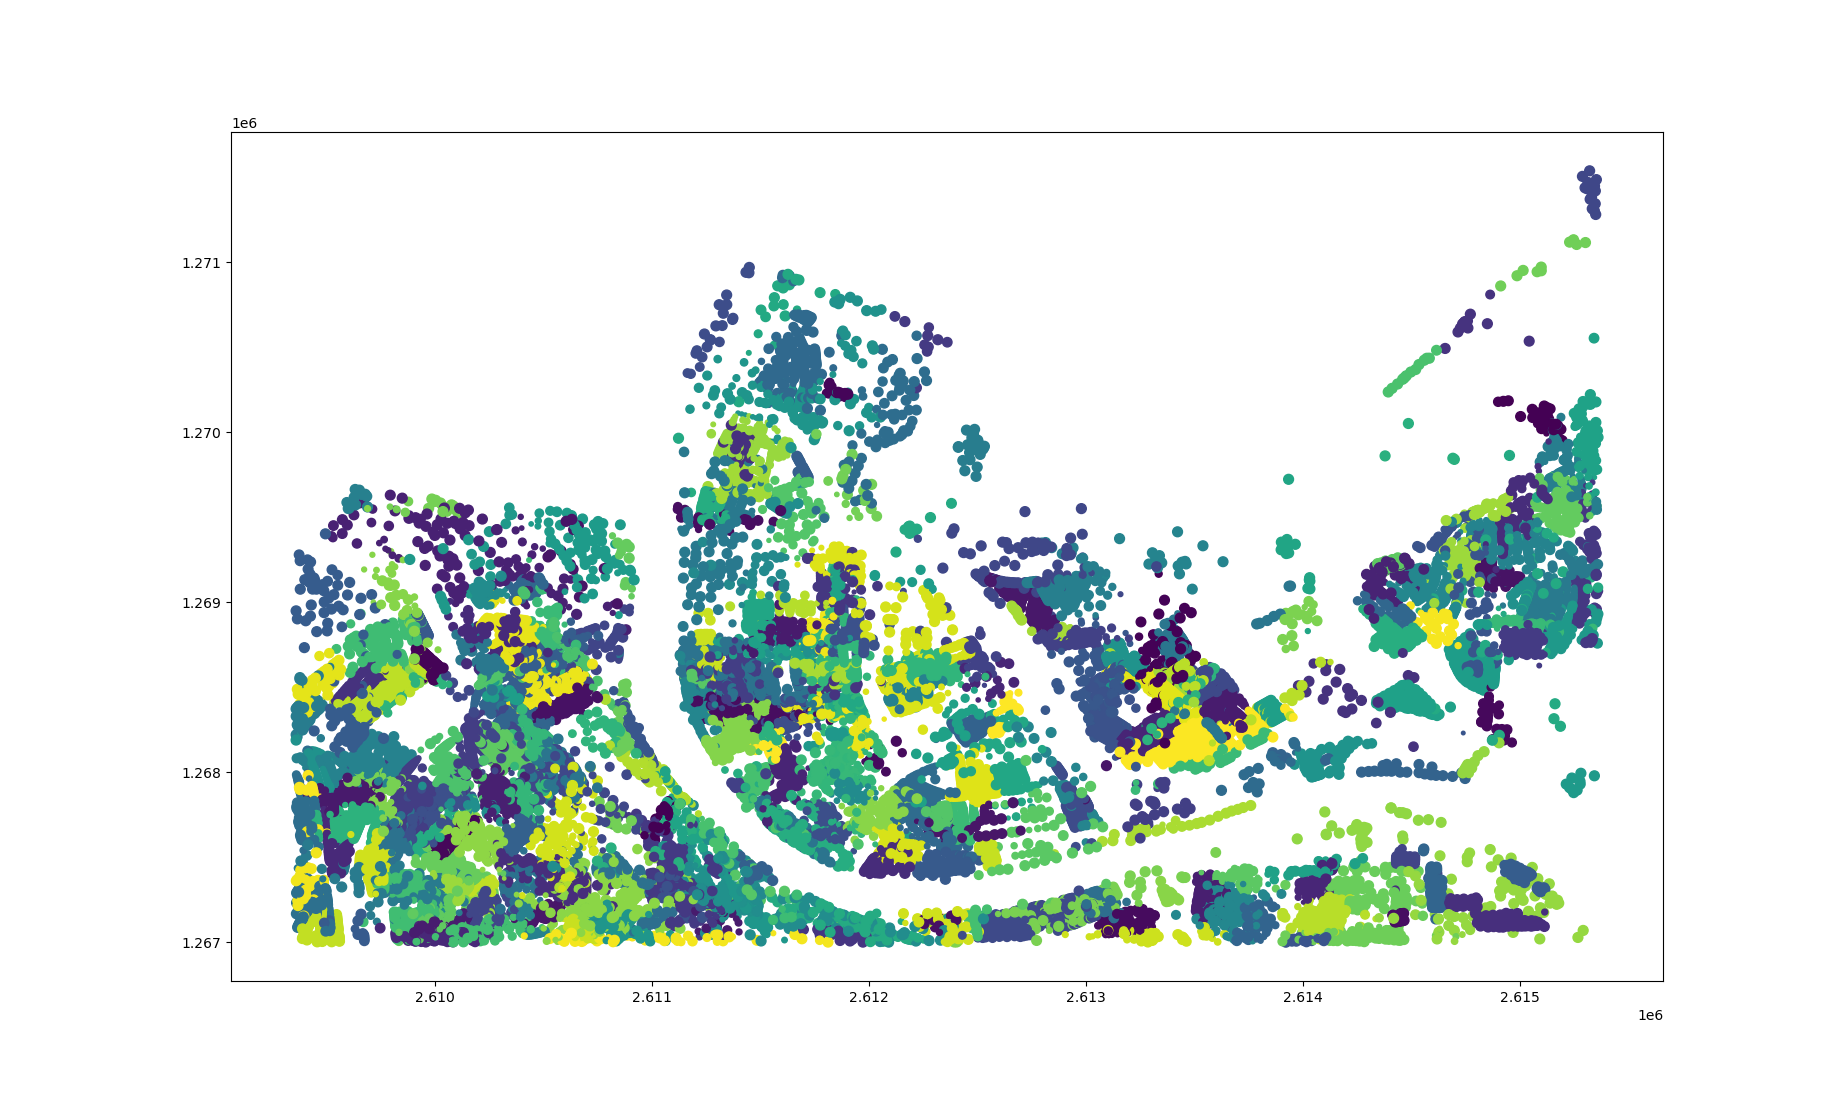
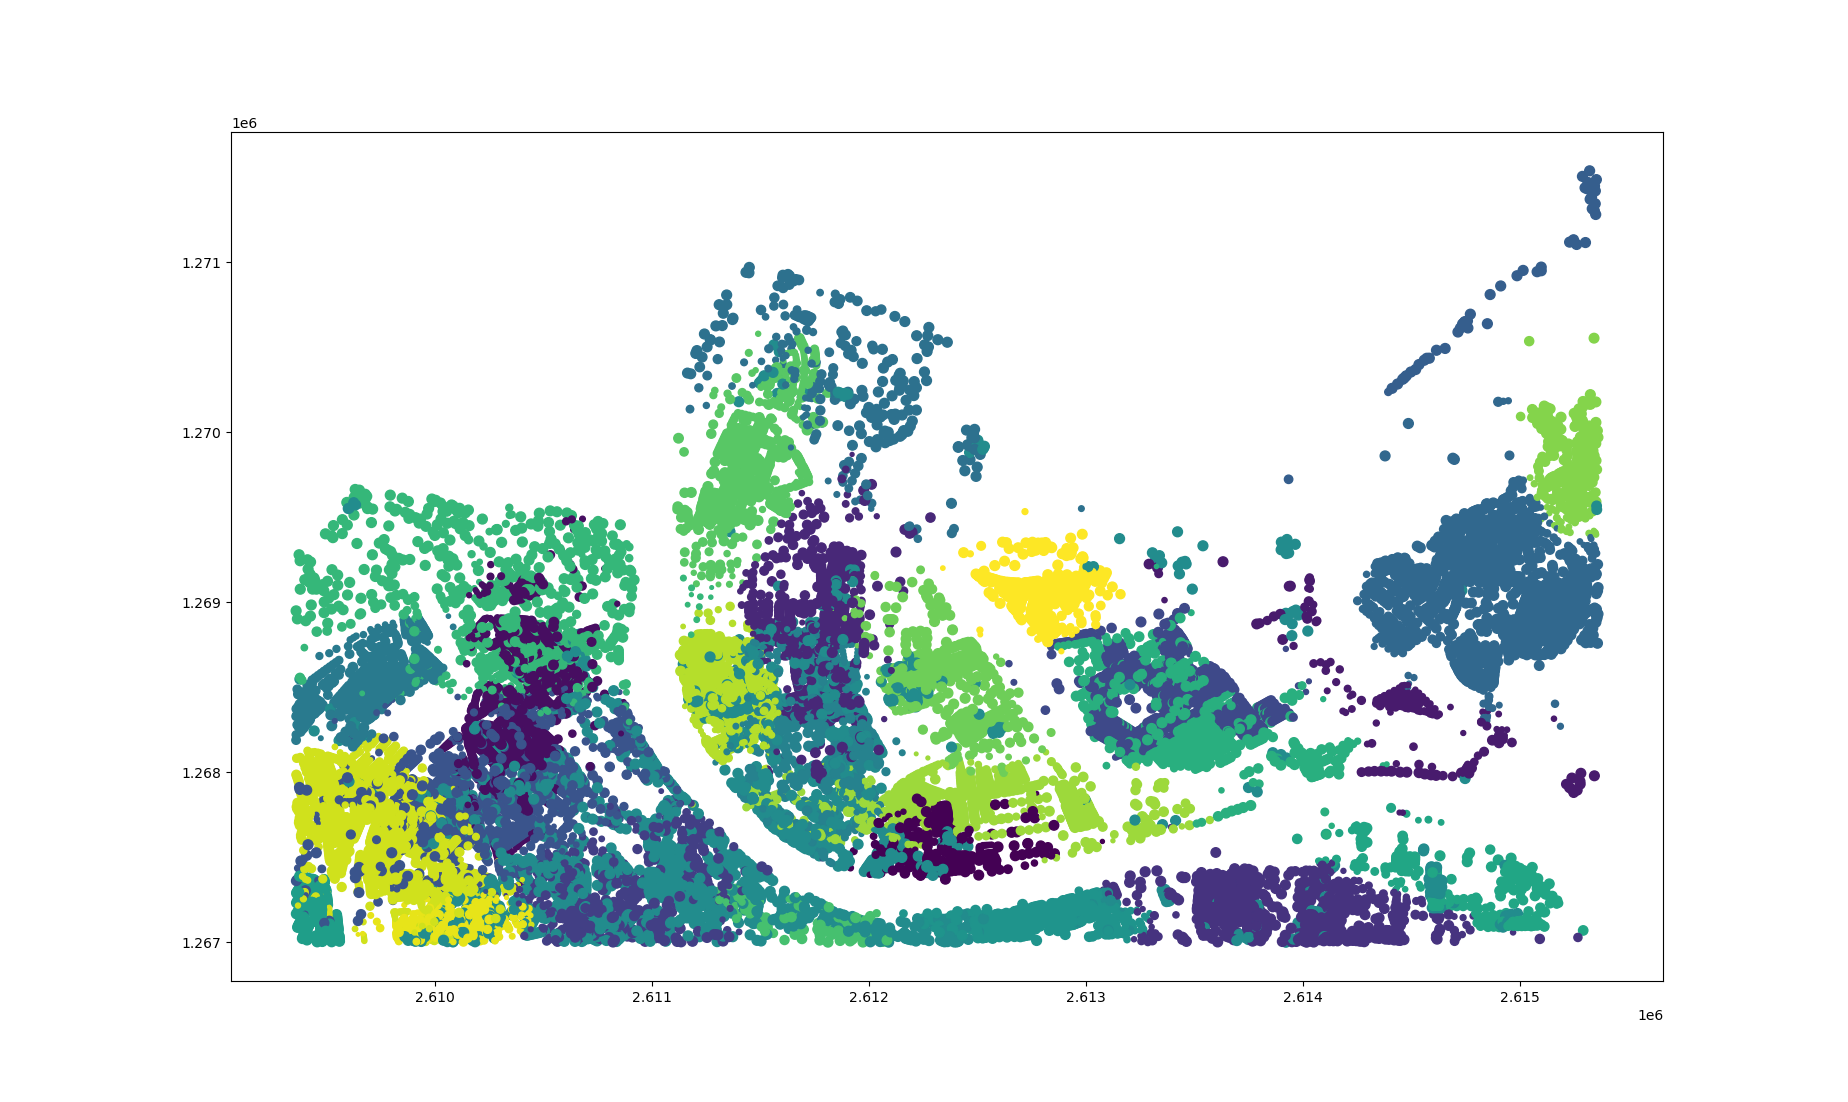
concentric zones

diff --git a/src/intyearpolator.py b/src/intyearpolator.py
@@ -41,6 +41,7 @@ pm_argparse.add_argument( '-x', '--long', type=str, default='GKODE', help='longi
 pm_argparse.add_argument( '-y', '--lat', type=str, default='GKODN', help='latitude column name. Default to GKODN')
 pm_argparse.add_argument( '-z', '--ranvar', type=str, default='GBAUJ', help='random variable column name. Default to GBAUJ')
 pm_argparse.add_argument( '--id', type=str, default='EGID', help='ID column name. Default to EGID')
+pm_argparse.add_argument( '-c', '--concentric', type=int, default=1, help='whether concentric zones should be used (1) or not (0). Default to True (1) - Time demanding')
 
 # read argument and parameters 
 pm_args = pm_argparse.parse_args()
@@ -182,13 +183,75 @@ for i in range(len(mergo)):
         mergo.loc[i, 'filled'] = mergo.loc[i, 'filled']
     else:
         mergo.loc[i, 'filled'] = mergo.loc[i, pm_args.ranvar]
-        
-# data wrangling for unsupervised learning
-mergo = mergo[[pm_args.id, pm_args.long, pm_args.lat, 'filled']]  
-X = mergo.iloc[:, 1:4].to_numpy()
+
+if pm_args.concentric != 0:
+# divide data in ten quantiles
+    print('Dividing data in quantiles ... concentric circles ... \n')
+    for i in range(len(mergo)):
+        if mergo.loc[i, 'filled'] <= np.array(mergo["filled"].quantile([.15])):
+            mergo.loc[i, 'quant'] = 0
+        elif mergo.loc[i, 'filled'] > np.array(mergo["filled"].quantile([.1])) and mergo.loc[i, 'filled'] <= np.array(mergo["filled"].quantile([.2])):
+            mergo.loc[i, 'quant'] = 1
+        elif mergo.loc[i, 'filled'] > np.array(mergo["filled"].quantile([.2])) and mergo.loc[i, 'filled'] <= np.array(mergo["filled"].quantile([.3])):
+            mergo.loc[i, 'quant'] = 2
+        elif mergo.loc[i, 'filled'] > np.array(mergo["filled"].quantile([.3])) and mergo.loc[i, 'filled'] <= np.array(mergo["filled"].quantile([.4])):
+            mergo.loc[i, 'quant'] = 3
+        elif mergo.loc[i, 'filled'] > np.array(mergo["filled"].quantile([.4])) and mergo.loc[i, 'filled'] <= np.array(mergo["filled"].quantile([.5])):
+            mergo.loc[i, 'quant'] = 4
+        elif mergo.loc[i, 'filled'] > np.array(mergo["filled"].quantile([.5])) and mergo.loc[i, 'filled'] <= np.array(mergo["filled"].quantile([.6])):
+            mergo.loc[i, 'quant'] = 5
+        elif mergo.loc[i, 'filled'] > np.array(mergo["filled"].quantile([.6])) and mergo.loc[i, 'filled'] <= np.array(mergo["filled"].quantile([.7])):
+            mergo.loc[i, 'quant'] = 6
+        elif mergo.loc[i, 'filled'] > np.array(mergo["filled"].quantile([.7])) and mergo.loc[i, 'filled'] <= np.array(mergo["filled"].quantile([.8])):
+            mergo.loc[i, 'quant'] = 7
+        elif mergo.loc[i, 'filled'] > np.array(mergo["filled"].quantile([.8])) and mergo.loc[i, 'filled'] <= np.array(mergo["filled"].quantile([.9])):
+            mergo.loc[i, 'quant'] = 8
+        else:
+            mergo.loc[i, 'quant'] = 9
+    mergo.quant = mergo.quant.astype(int)    
+
+    def createList(n_comp): 
+        return list(range(0, n_comp)) 
+    seq_quant = createList(10)
+
+    m_q = {}
+    for i in seq_quant:
+        m_q['c%s' % i] = np.nanmean([np.array(mergo[mergo['quant'] == i].iloc[:,-2])])
+    m_q = np.array(pd.DataFrame(m_q, index = [0]))
+
+    for i in range(len(mergo)):
+        if mergo.loc[i, "quant"] == 0:
+            mergo.loc[i, 'Zq'] = m_q[0][0]
+        elif mergo.loc[i, "quant"] == 1:
+            mergo.loc[i, 'Zq'] = m_q[0][1]
+        elif mergo.loc[i, "quant"] == 2:
+            mergo.loc[i, 'Zq'] = m_q[0][2]
+        elif mergo.loc[i, "quant"] == 3:
+            mergo.loc[i, 'Zq'] = m_q[0][3]
+        elif mergo.loc[i, "quant"] == 4:
+            mergo.loc[i, 'Zq'] = m_q[0][4]
+        elif mergo.loc[i, "quant"] == 5:
+            mergo.loc[i, 'Zq'] = m_q[0][5]
+        elif mergo.loc[i, "quant"] == 6:
+            mergo.loc[i, 'Zq'] = m_q[0][6]
+        elif mergo.loc[i, "quant"] == 7:
+            mergo.loc[i, 'Zq'] = m_q[0][7]
+        elif mergo.loc[i, "quant"] == 8:
+            mergo.loc[i, 'Zq'] = m_q[0][8]
+        else:
+            mergo.loc[i, 'Zq'] = m_q[0][9]
+    mergo.Zq = mergo.Zq.astype(int)
+              
+    # data wrangling for unsupervised learning
+    mergo = mergo[[pm_args.id, pm_args.long, pm_args.lat, 'Zq']]  
+else:
+    mergo = mergo[[pm_args.id, pm_args.long, pm_args.lat, 'filled']]
+X = mergo.iloc[:, 1:5].to_numpy()
 
 # Gaussian Mixture Model for clustering
-n_comp = int((len(mergo)) * 0.02 - 56 )
+n_comp = int(((len(mergo)) * 0.02 - 56)/10) 
+if n_comp < 5:
+    n_comp = 5
 print("Computing gaussian mixture model clustering with ", n_comp, " components ... \n" )
 gmm = mixture.GaussianMixture(n_components=n_comp, covariance_type = 'full').fit(X)
 labels = gmm.predict(X)

diff --git a/README.md b/README.md
@@ -29,11 +29,11 @@ being *d* the distance between points, μ the mean and *s²* the variance of ran
 
 It is important to mention that in case of very large number of missing data, if the searching radius does not find enough information, the posterior mean will be the same as the prior mean, possibly causing over/underestimation in those areas.
 
-This first procedure is used to fill the gaps in the entry database. This completion is only done in the random variable column and not on the coordinates on. This is done so clustering can be computed. The unsupervised learning tool used is a gaussian mixture model, which does not only segments data into clusters, but as it is a probabilistic model, it will indicate the probability of each point belonging to every cluster. The number of components computed is a linear function to the total number of points being used, inclusing the ones that previously had gaps. The function to find the number of component is the following:
+This first procedure is used to fill the gaps in the entry database. This completion is only done in the random variable column and not on the coordinates on. This is done so clustering can be computed. The next step is then splitting the data in 10 quantiles, what could give the idea of concentric growth zones, ispired, in Burgess Model (1925-1929). Every point in the database will then assume the value of its quantile. THis is also a reason why the intYEARpolator shall be used more for older values in the dataset (older than the oldest topographic map). If you want it to be generally purpose, set the argument *concentric* to False (0). The unsupervised learning tool used then is a gaussian mixture model, which does not only segments data into clusters, but as it is a probabilistic model, it will indicate the probability of each point belonging to every cluster. The number of components computed is a linear function to the total number of points being used, inclusing the ones that previously had gaps. The function to find the number of component is the following:
 
 ![](doc/image/eq1.png)
 
-being *np* the number of components / clusters, and *nc* the total number of points used. The number of clusters shall usually be very large compared to a standard clustering exercise. This will enhance the degree of detailing in predictions. An example of clustering performed by the embedded gaussian mixture model can be seen below:
+being *np* the number of components / clusters, and *nc* the total number of points used. The number of clusters shall usually be very large compared to a standard clustering exercise. To avoid this, this value is being divided by ten, but the number of cluster will never be smaller then five. An example of clustering performed by the embedded gaussian mixture model can be seen below:
 
 ![](doc/image/f2.png)
 
